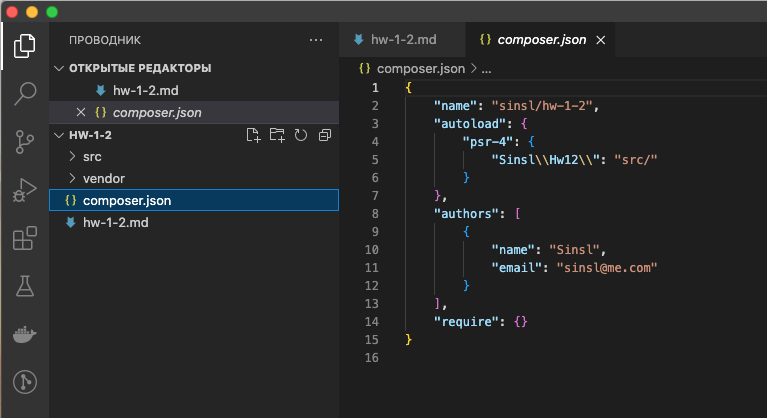
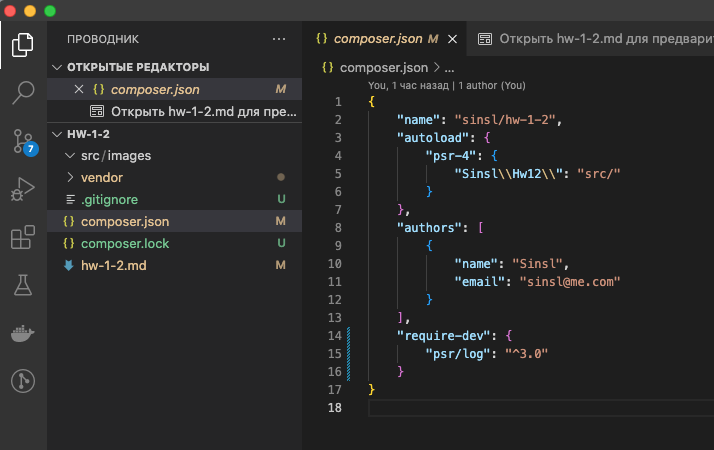
change

diff --git a/vendor/composer/autoload_static.php b/vendor/composer/autoload_static.php
@@ -11,12 +11,20 @@ class ComposerStaticInit1c8ef9c3991cce2d79b403730ae2fefe
         array (
             'Sinsl\\Hw12\\' => 11,
         ),
+        'P' => 
+        array (
+            'Psr\\Log\\' => 8,
+        ),
     );
 
     public static $prefixDirsPsr4 = array (
         'Sinsl\\Hw12\\' => 
         array (
             0 => __DIR__ . '/../..' . '/src',
+        ),
+        'Psr\\Log\\' => 
+        array (
+            0 => __DIR__ . '/..' . '/psr/log/src',
         ),
     );
 

diff --git a/vendor/composer/autoload_psr4.php b/vendor/composer/autoload_psr4.php
@@ -7,4 +7,5 @@ $baseDir = dirname($vendorDir);
 
 return array(
     'Sinsl\\Hw12\\' => array($baseDir . '/src'),
+    'Psr\\Log\\' => array($vendorDir . '/psr/log/src'),
 );

diff --git a/hw-1-2.md b/hw-1-2.md
@@ -1,5 +1,15 @@
-
+# Домашнее задание по блоку "Введение в laravel"
 
 ![Скрин composer.json](/src/images/lrv-hw-12.png)
 
 
+## Дополнительное задание
+
+Ответьте на следующие вопросы:
+
+- В чем разница между файлами `composer.json` и `composer.lock` ?\
+  В composer.json находится список зависимостей, которые нужно загрузить в проект. Зависимостям указаны возможные версии установки. Файл composer.lock используется для хранения информации о том, какие версии каждой зависимости были установлены, указываются юрлы, названия, авторы этих зависимостей.
+- В чем разница между директивами `require-dev` и `require` внутри файла `composer.json`?\
+  Секция require служит для установки зависимостей для продакшена, а require-dev для разработки. При деплое можно указать флаг --no-dev для установки зависимостей только из секции require.
+- В чем разница между запуском команды `composer install` и `composer update`?\
+  Команда install устанавливает зависимости в проект. То есть, будут поставлены те версии, которые указаны в composer.lock. Команда update обновит зависимости по версиям указанным в composer.json, вместе с этим обновит файл composer.lock.
